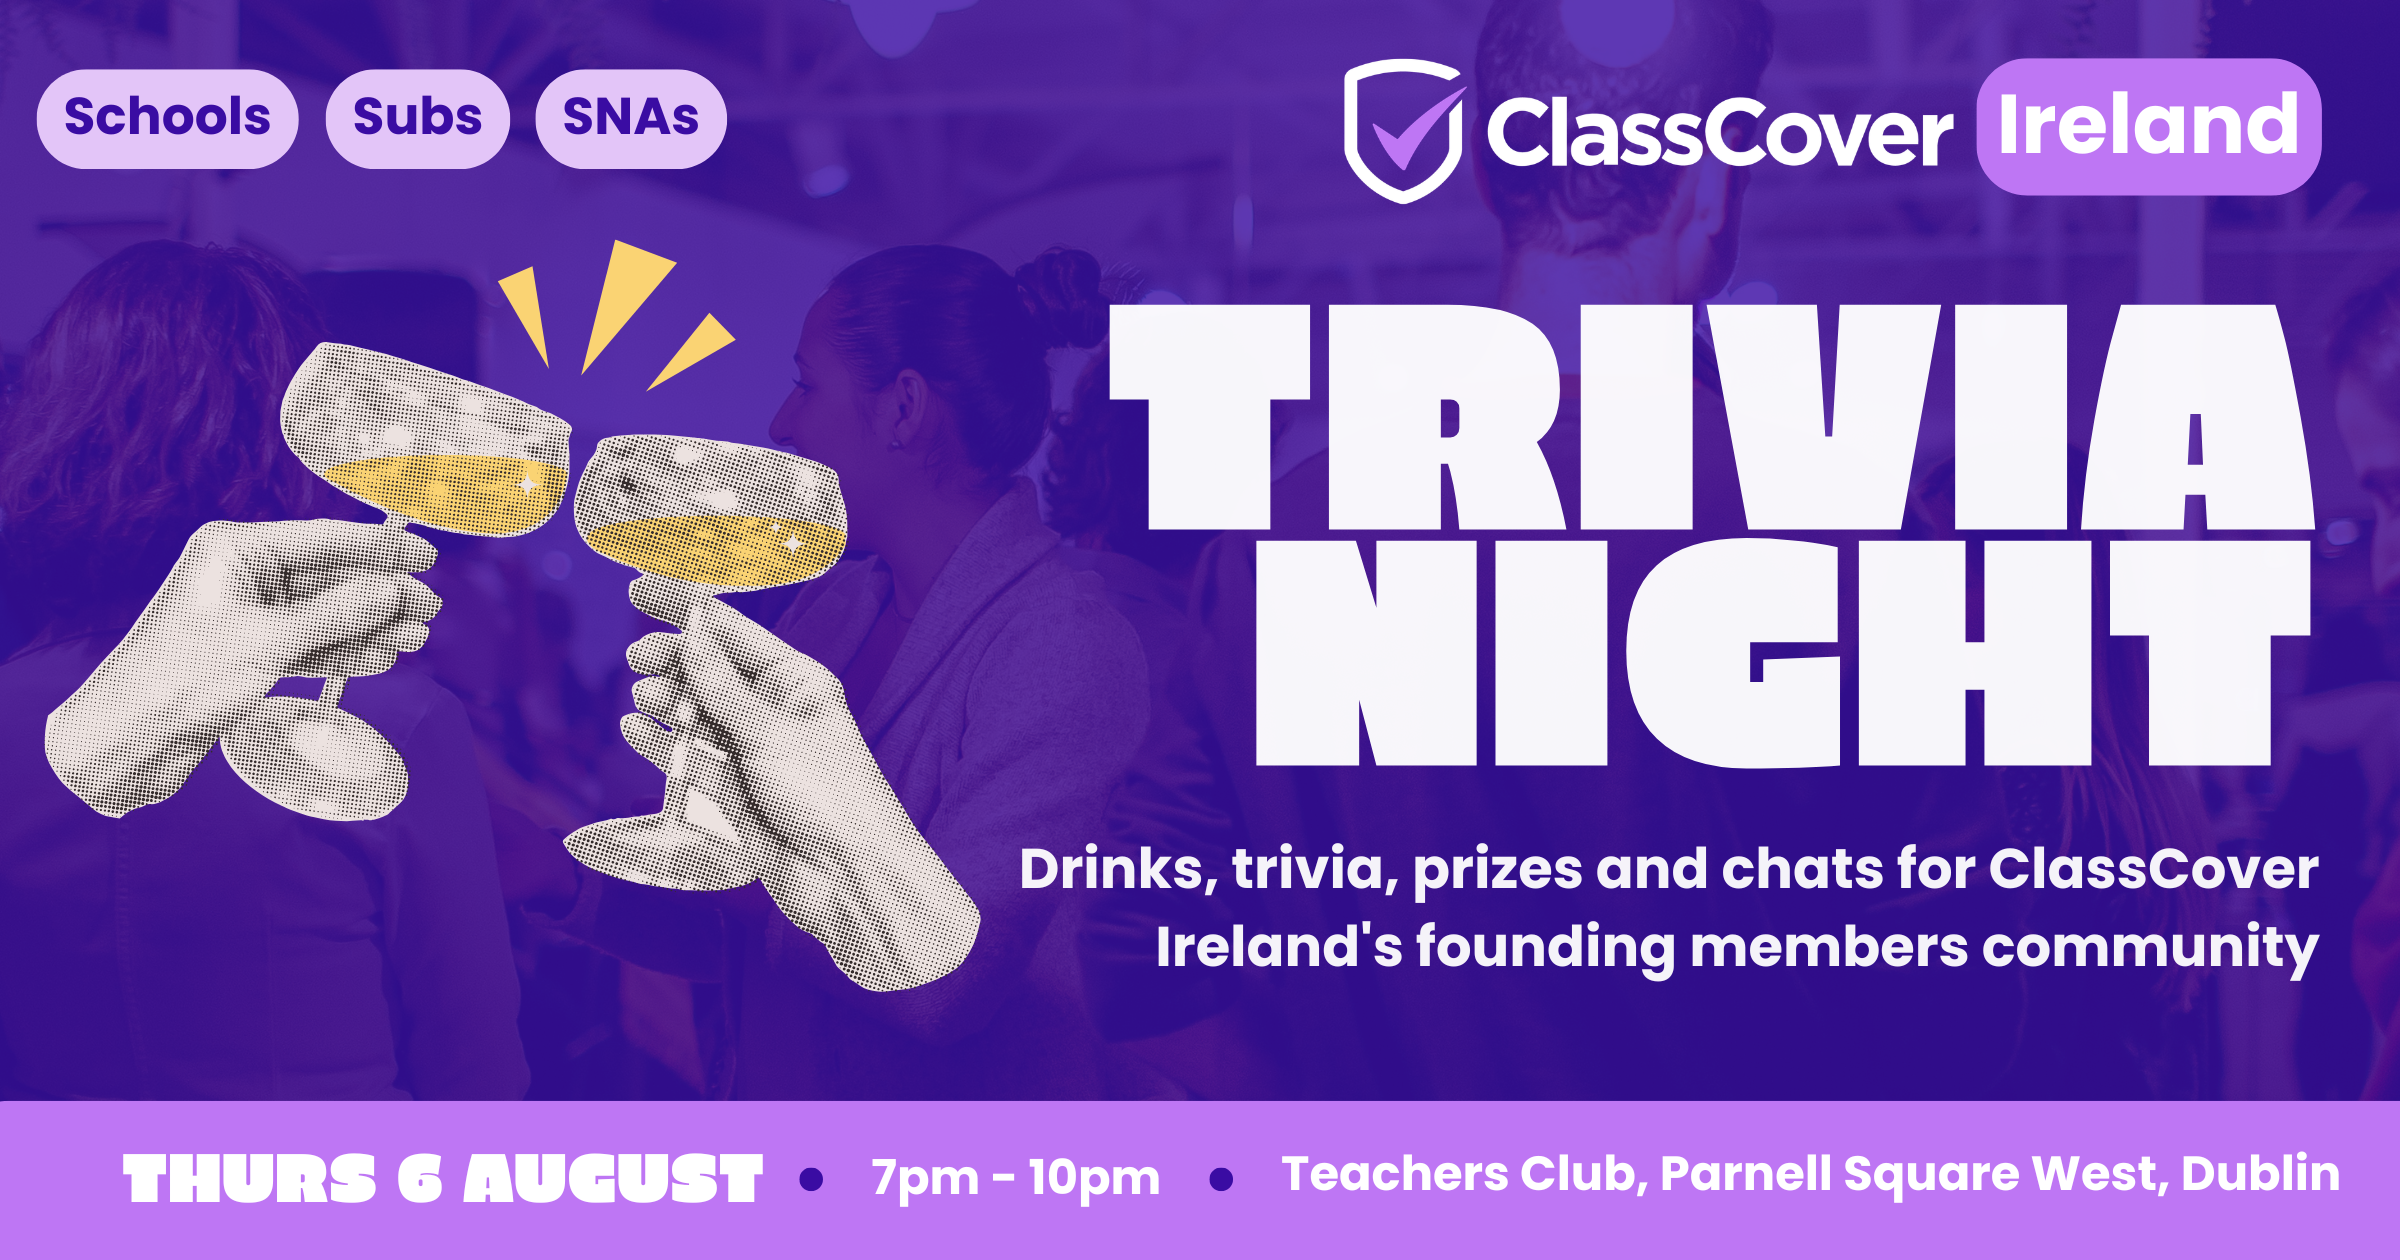
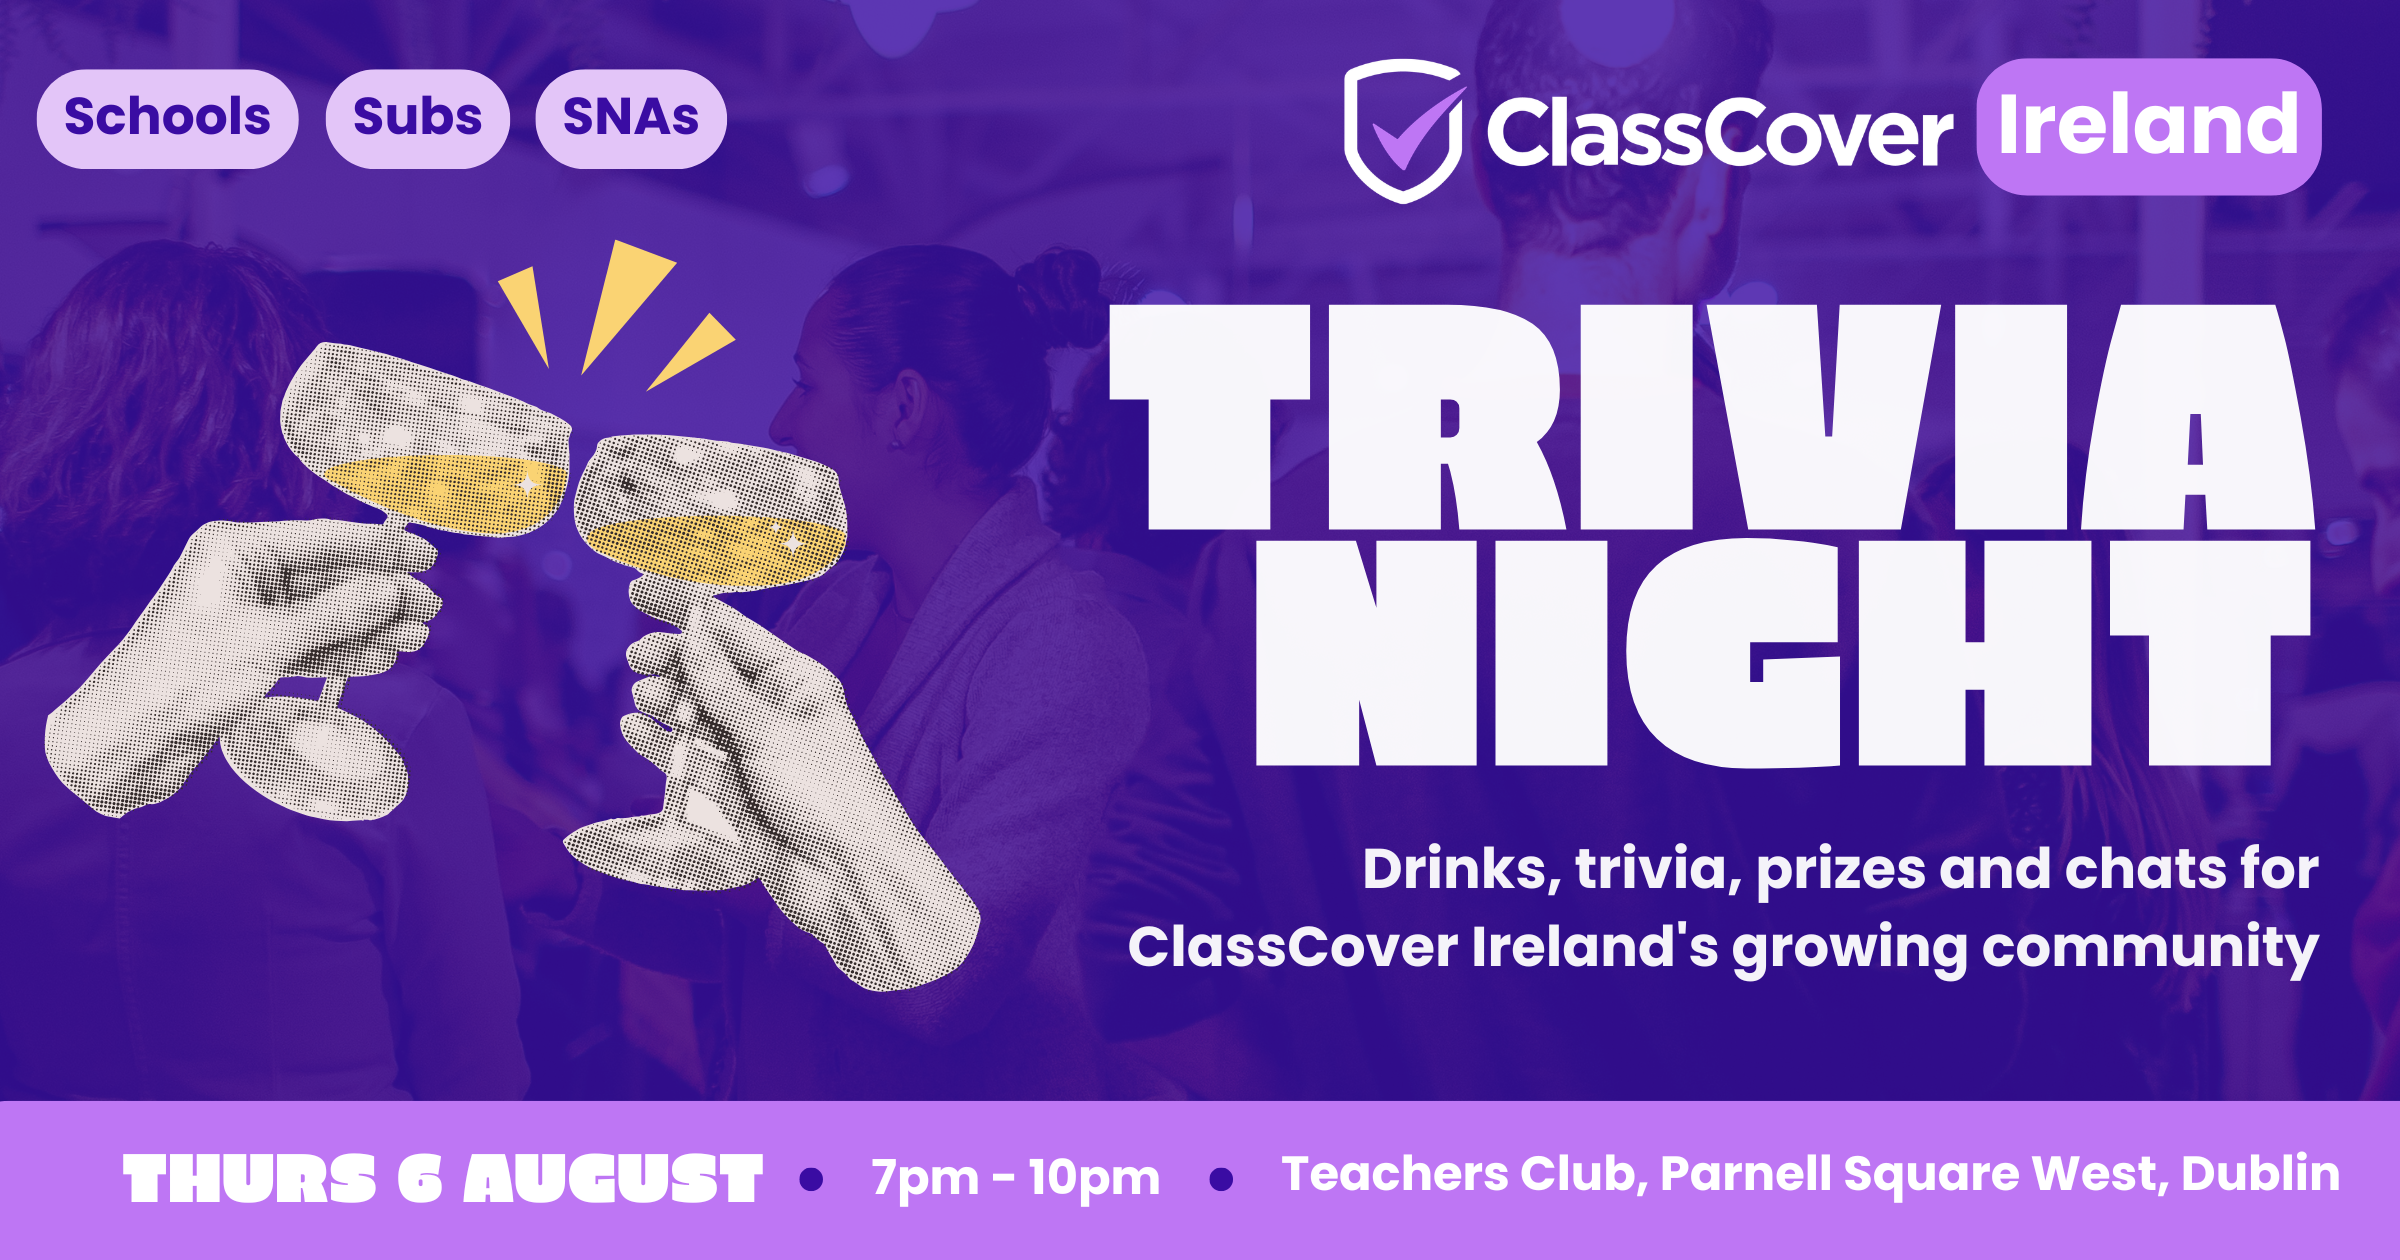
Update Trivia Night: hero V3, who's-invited, remove free line
- Swap hero to Concept 2 V3 (growing community line), bump ?v=3
- Who's invited: lead with Principals & Deputy Principals, add
  Classroom Teachers, title-case all four, 4-col responsive grid
- Drop "Not a cent to get in" from the Free card

Changed region(s): [[0.4062, 0.65, 0.9688, 0.7738]]

diff --git a/trivia-night-dublin/index.html b/trivia-night-dublin/index.html
@@ -39,7 +39,7 @@ j=d.createElement(s),dl=l!='dataLayer'?'&l='+l:'';j.async=true;j.src=
   <meta property="og:url" content="https://www.classcoverapp.ie/trivia-night-dublin/" />
   <meta property="og:locale" content="en_IE" />
   <meta property="og:site_name" content="ClassCover Ireland" />
-  <meta property="og:image" content="https://www.classcoverapp.ie/images/trivia-night-dublin.png?v=2" />
+  <meta property="og:image" content="https://www.classcoverapp.ie/images/trivia-night-dublin.png?v=3" />
   <link rel="alternate" hreflang="en-IE" href="https://www.classcoverapp.ie/trivia-night-dublin/" />
   <link rel="alternate" hreflang="x-default" href="https://www.classcoverapp.ie" />
   <script type="application/ld+json">
@@ -52,7 +52,7 @@ j=d.createElement(s),dl=l!='dataLayer'?'&l='+l:'';j.async=true;j.src=
     "endDate": "2026-08-06T22:00:00+01:00",
     "eventAttendanceMode": "https://schema.org/OfflineEventAttendanceMode",
     "eventStatus": "https://schema.org/EventScheduled",
-    "image": "https://www.classcoverapp.ie/images/trivia-night-dublin.png?v=2",
+    "image": "https://www.classcoverapp.ie/images/trivia-night-dublin.png?v=3",
     "location": {
       "@type": "Place",
       "name": "The Teachers Club",
@@ -294,19 +294,25 @@ j=d.createElement(s),dl=l!='dataLayer'?'&l='+l:'';j.async=true;j.src=
       text-wrap: balance;
     }
     .tn-who-grid {
-      display: grid; grid-template-columns: repeat(3, 1fr);
-      max-width: 880px; margin: 0 auto; text-align: left;
+      display: grid; grid-template-columns: repeat(4, 1fr);
+      max-width: 1000px; margin: 0 auto; text-align: left;
     }
-    .tn-who-col { padding: 4px 28px; }
+    .tn-who-col { padding: 4px 22px; }
     .tn-who-col + .tn-who-col { border-left: 1px solid #e7e3f0; }
-    .tn-who-name { font-family: 'Poppins', sans-serif; font-weight: 700; font-size: 18px; color: var(--plum); margin: 0 0 8px; }
-    .tn-who-desc { font-size: 15px; line-height: 1.55; color: var(--muted); margin: 0; }
-    @media (max-width: 760px) {
+    .tn-who-name { font-family: 'Poppins', sans-serif; font-weight: 700; font-size: 17px; color: var(--plum); margin: 0 0 8px; }
+    .tn-who-desc { font-size: 14.5px; line-height: 1.55; color: var(--muted); margin: 0; }
+    @media (max-width: 860px) {
+      .tn-who-grid { grid-template-columns: repeat(2, 1fr); gap: 28px 0; max-width: 560px; }
+      .tn-who-col { padding: 0 22px; }
+      .tn-who-col + .tn-who-col { border-left: 1px solid #e7e3f0; }
+      .tn-who-col:nth-child(odd) { border-left: none; }
+    }
+    @media (max-width: 560px) {
       .tn-who { padding: 56px 0 54px; }
       .tn-who-card { padding: 38px 26px 34px; border-radius: 22px; }
       .tn-who-grid { grid-template-columns: 1fr; gap: 24px; max-width: 380px; }
-      .tn-who-col { padding: 0; }
-      .tn-who-col + .tn-who-col { border-left: none; border-top: 1px solid #e7e3f0; padding-top: 24px; }
+      .tn-who-col { padding: 0; border-left: none !important; }
+      .tn-who-col + .tn-who-col { border-top: 1px solid #e7e3f0; padding-top: 24px; }
     }
 
     /* ── WHAT'S ON (perks) ── */
@@ -455,7 +461,7 @@ height="0" width="0" style="display:none;visibility:hidden"></iframe></noscript>
       <div class="container">
         <div class="tn-hero-inner">
 
-          <img class="tn-hero-banner" src="/images/trivia-night-dublin.png?v=2"
+          <img class="tn-hero-banner" src="/images/trivia-night-dublin.png?v=3"
                alt="ClassCover Ireland Trivia Night, Thursday 6 August, 7 to 10pm, The Teachers Club, Parnell Square West, Dublin. For schools, subs and SNAs."
                width="2400" height="1260" loading="eager" fetchpriority="high" />
 
@@ -528,16 +534,20 @@ height="0" width="0" style="display:none;visibility:hidden"></iframe></noscript>
         <p class="tn-who-line">Know ClassCover already, or hearing about us for the first time? Either way, you're welcome. Come along on your own or bring colleagues. Just register everyone so we can save the seats.</p>
         <div class="tn-who-grid">
           <div class="tn-who-col">
-            <p class="tn-who-name">Substitute teachers</p>
+            <p class="tn-who-name">Principals &amp; Deputy Principals</p>
+            <p class="tn-who-desc">School leaders who want to connect with the subs and SNAs supporting their schools.</p>
+          </div>
+          <div class="tn-who-col">
+            <p class="tn-who-name">Classroom Teachers</p>
+            <p class="tn-who-desc">Full-time teachers keen to meet the wider community building around them.</p>
+          </div>
+          <div class="tn-who-col">
+            <p class="tn-who-name">Substitute Teachers</p>
             <p class="tn-who-desc">Meet other subs, swap stories, and find your people beyond the staffroom.</p>
           </div>
           <div class="tn-who-col">
             <p class="tn-who-name">SNAs</p>
             <p class="tn-who-desc">Special Needs Assistants, front and centre in this community from day one.</p>
-          </div>
-          <div class="tn-who-col">
-            <p class="tn-who-name">Principals &amp; deputies</p>
-            <p class="tn-who-desc">School leaders who want to connect with the subs and SNAs supporting their schools.</p>
           </div>
         </div>
         </div>
@@ -601,7 +611,7 @@ height="0" width="0" style="display:none;visibility:hidden"></iframe></noscript>
           <div class="tn-detail">
             <div class="tn-detail-ico"><svg viewBox="0 0 24 24" fill="none" stroke="currentColor" stroke-width="2" stroke-linecap="round" stroke-linejoin="round" aria-hidden="true"><path d="M9 12l2 2 4-4"/><circle cx="12" cy="12" r="9"/></svg></div>
             <h3>Free, just register</h3>
-            <p>Not a cent to get in. Spaces are limited, so register yours. And feel free to share the link with colleagues.</p>
+            <p>Spaces are limited, so register yours. And feel free to share the link with colleagues.</p>
           </div>
         </div>
       </div>